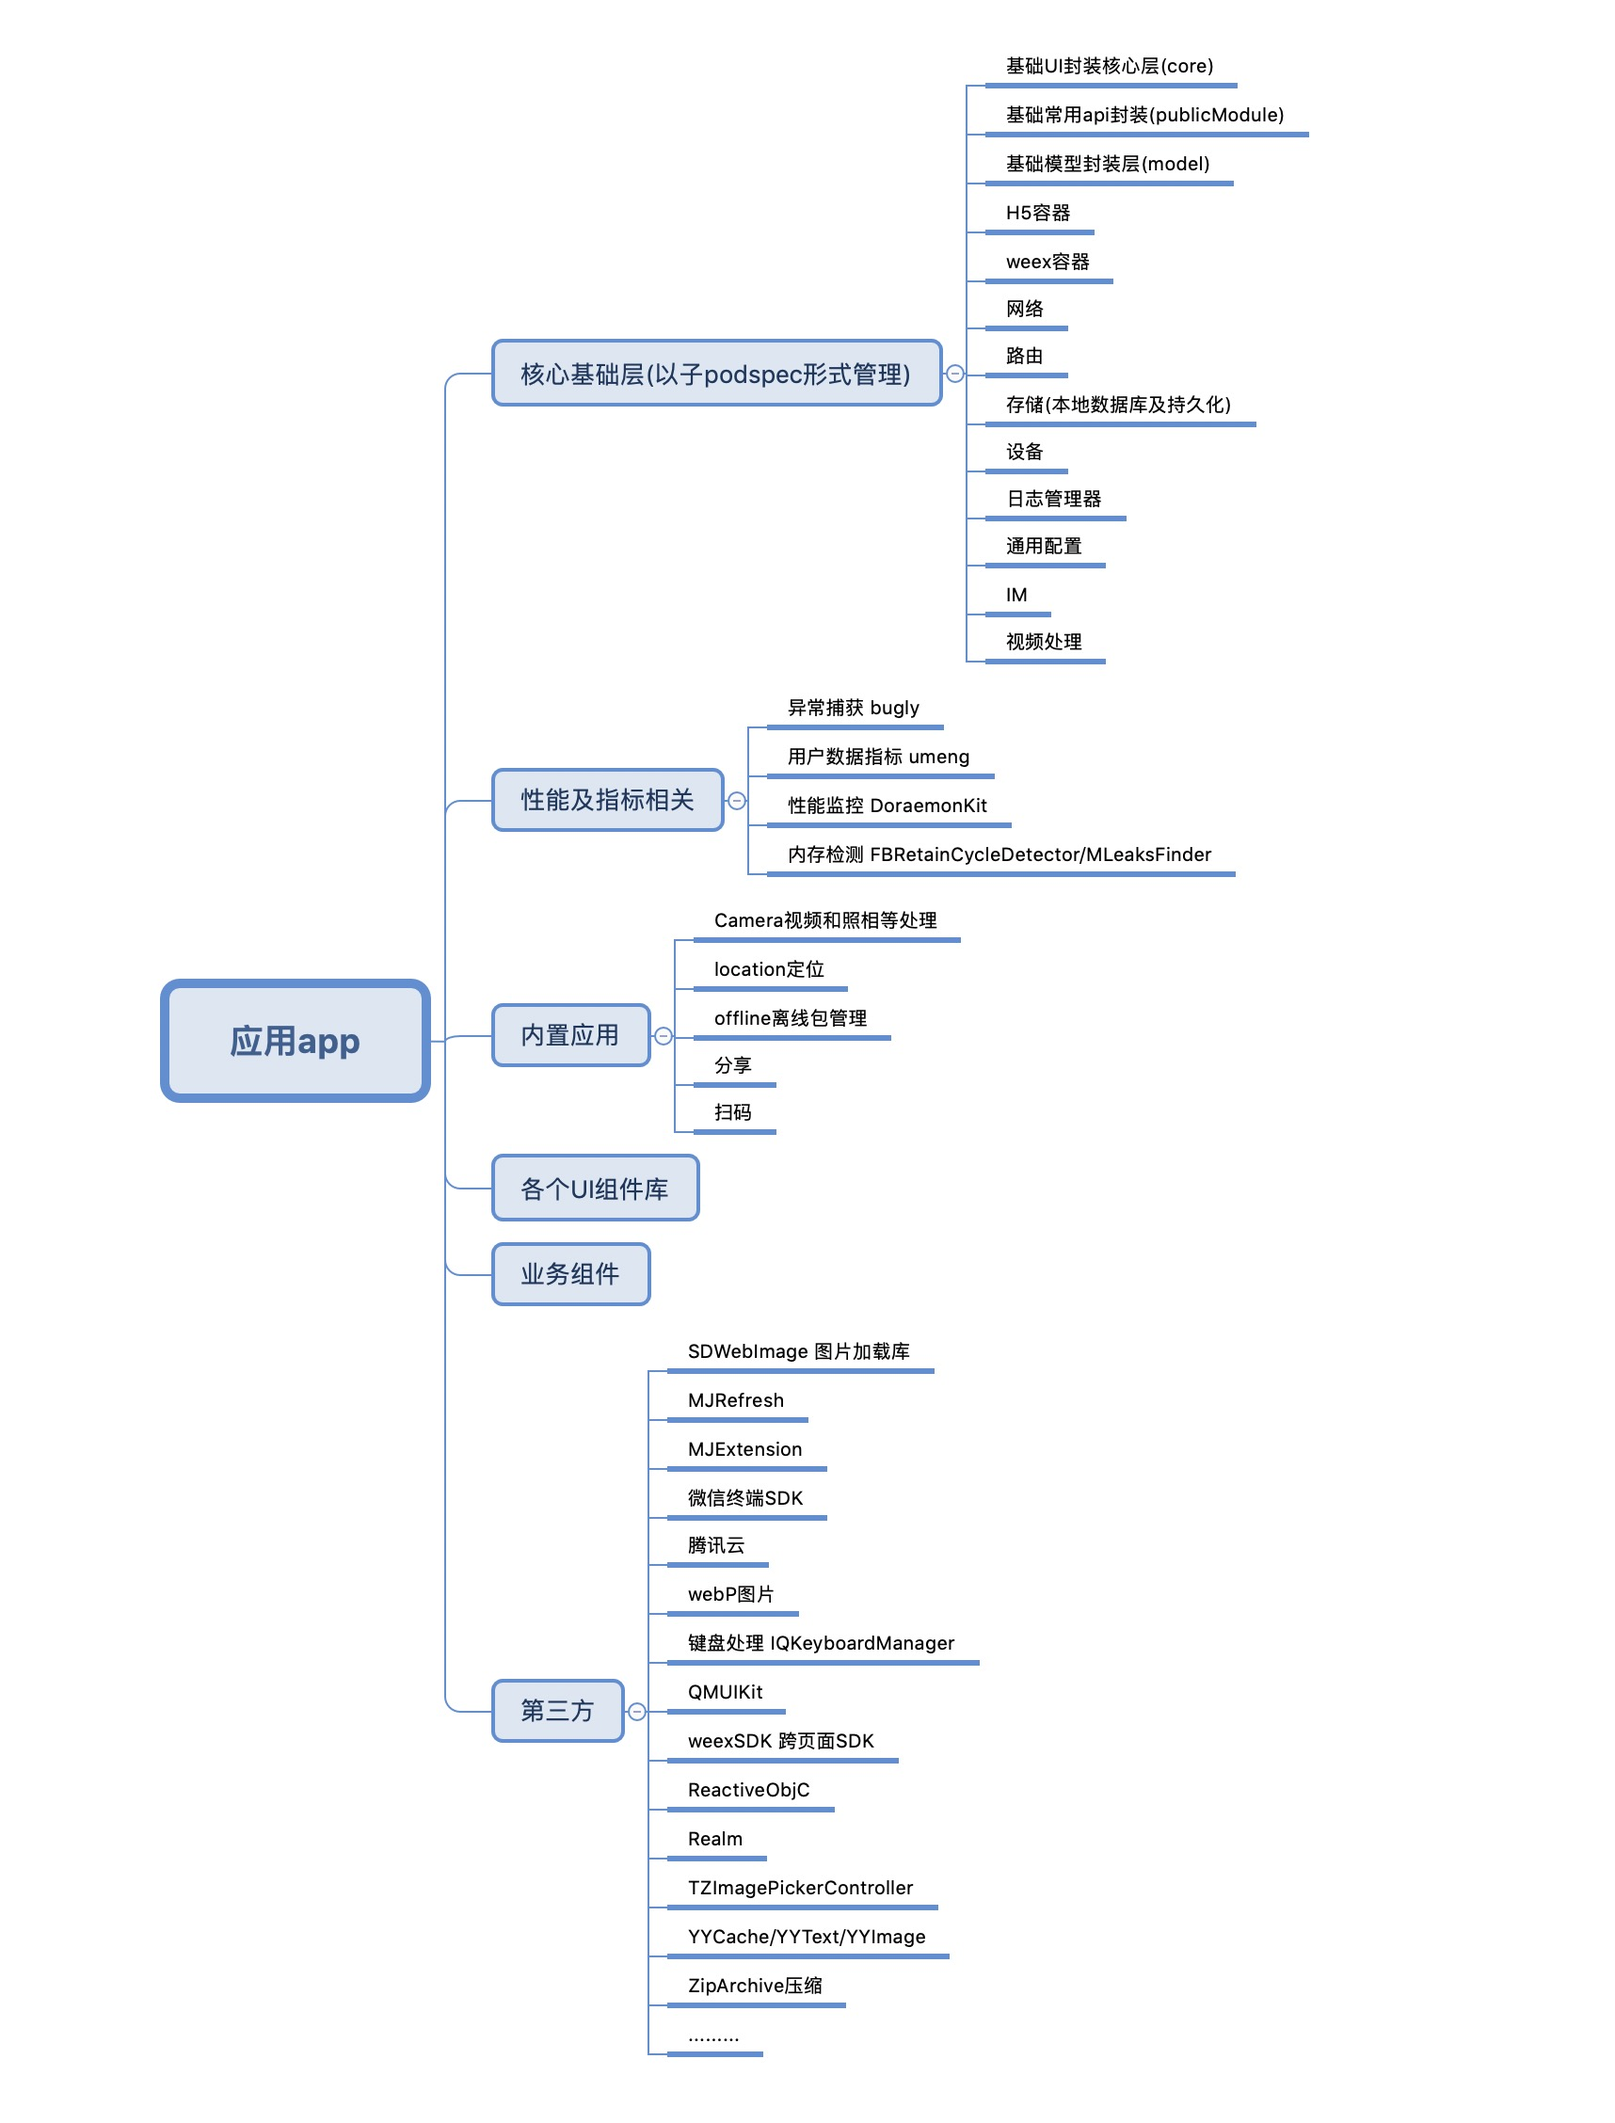
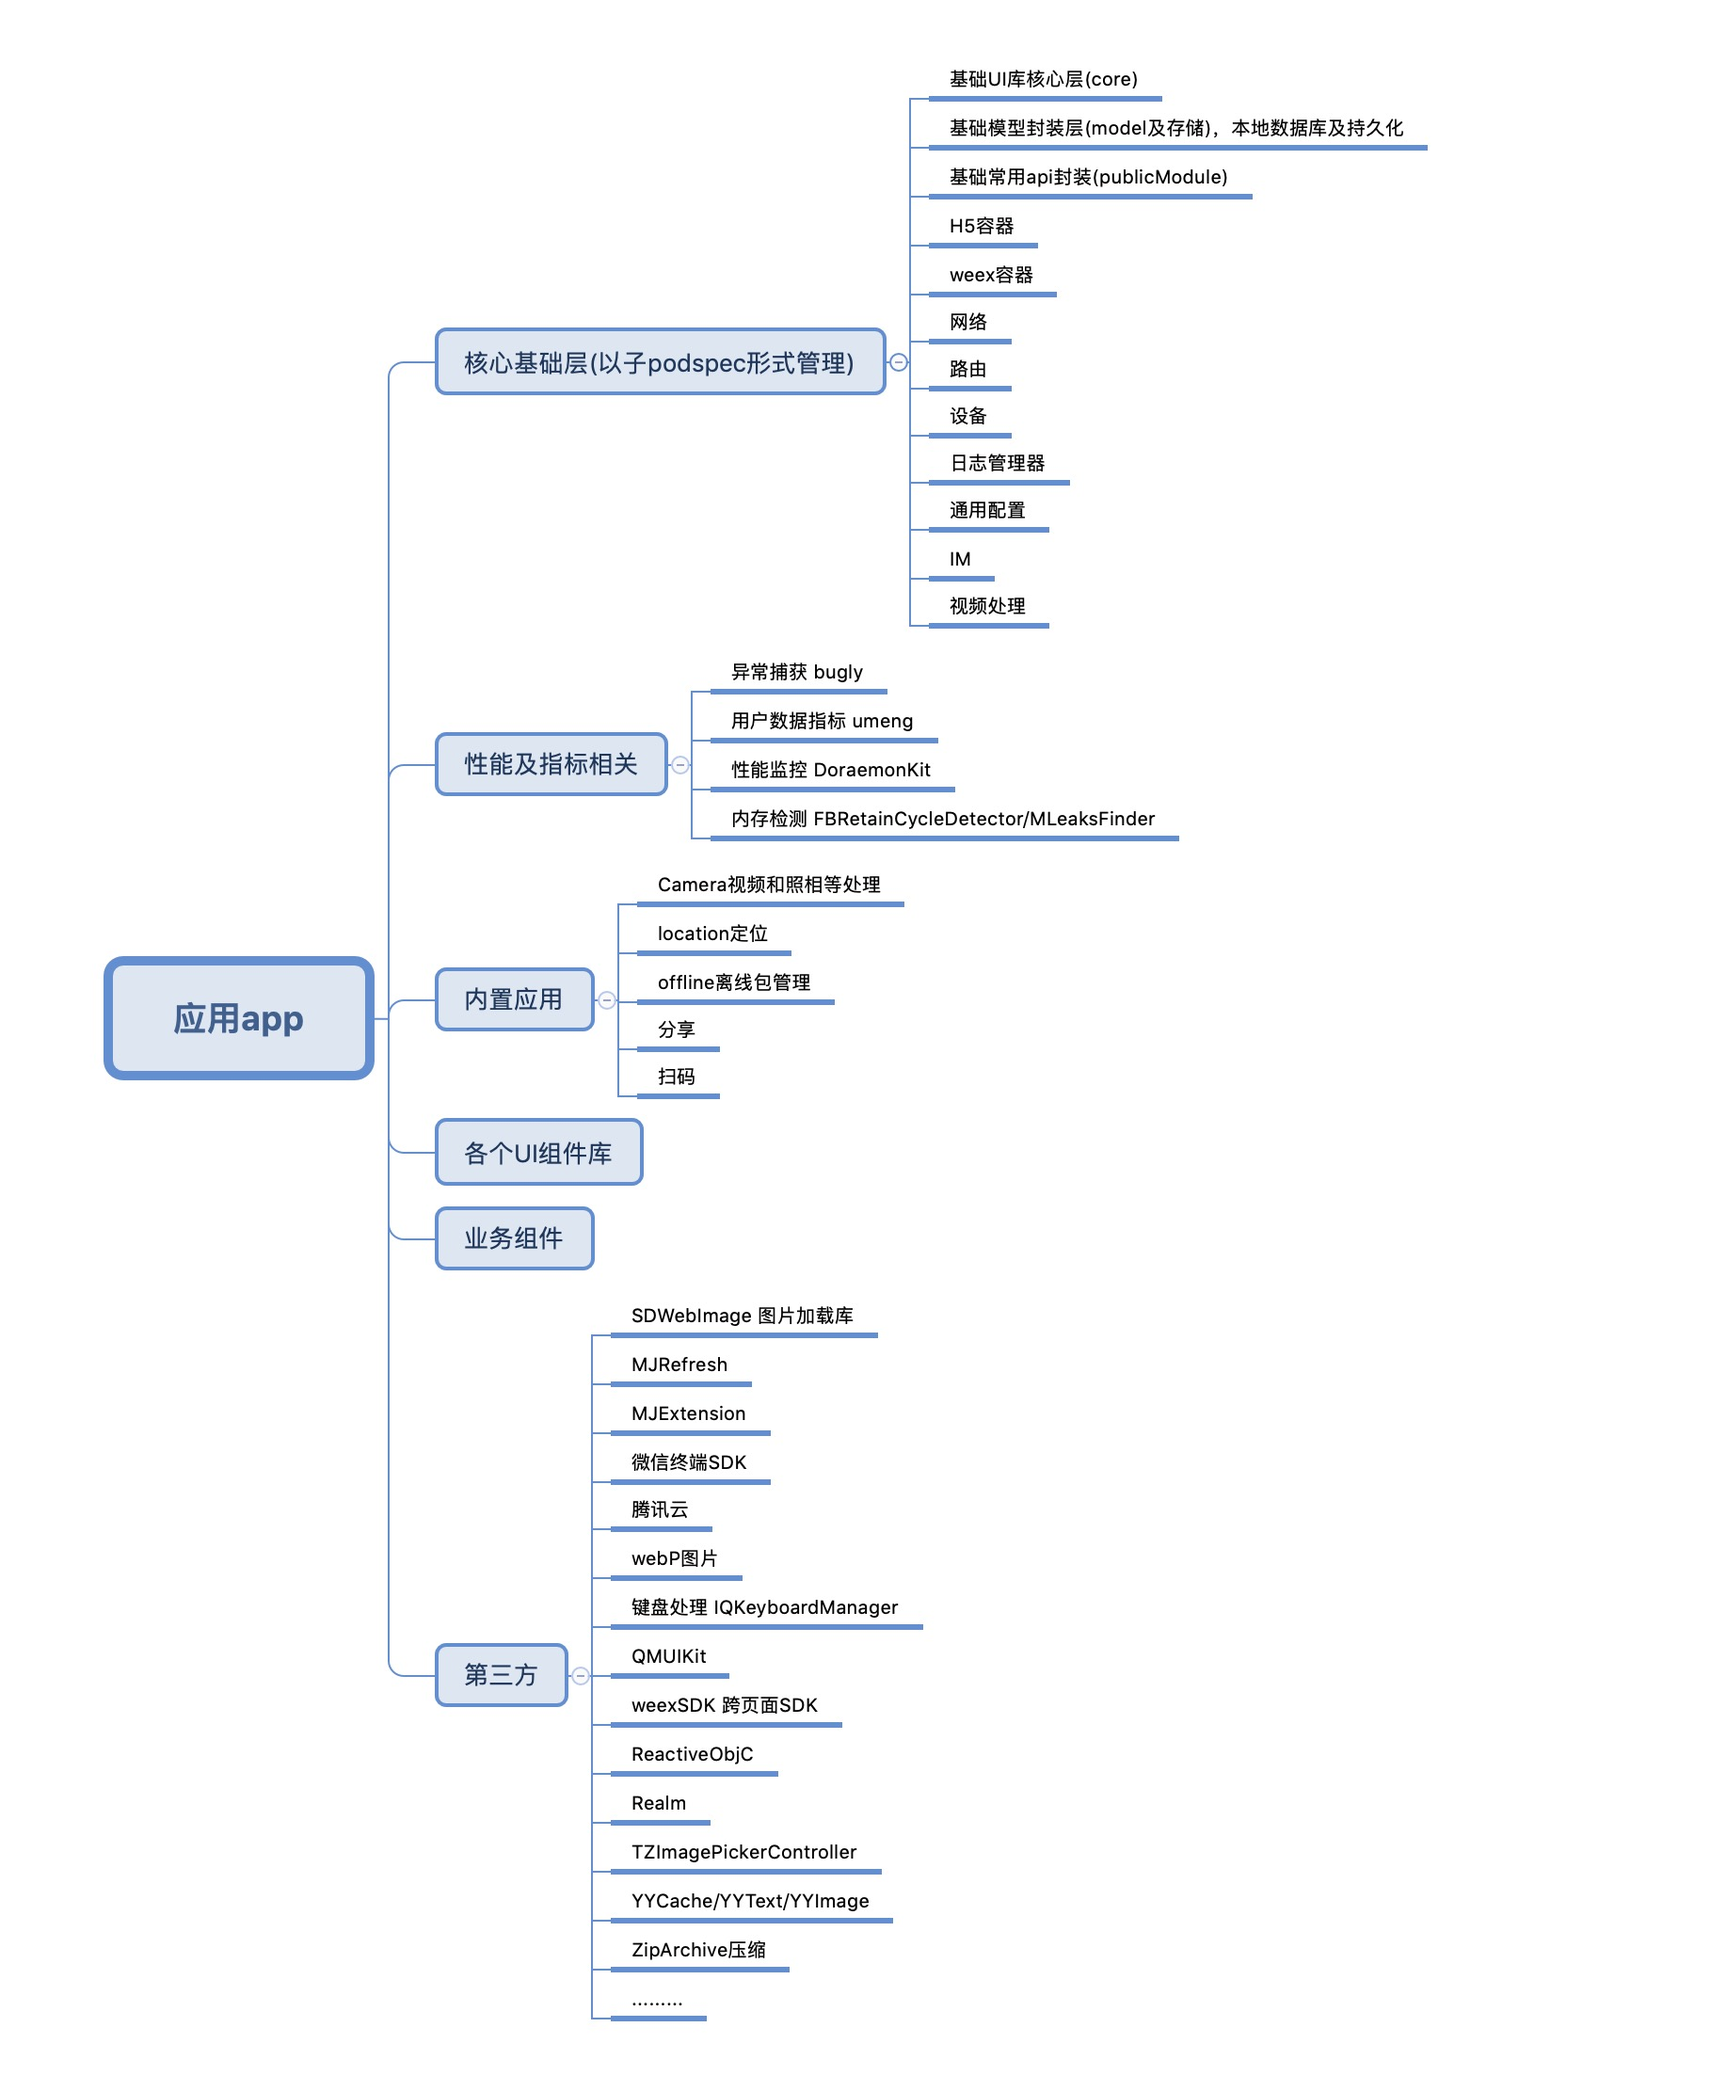
细节整理

Changed region(s): [[0.0618, 0.0311, 0.803, 0.9626]]

diff --git a/_posts/ios/2020-04-13-组件化(一)-基础库的梳理.md b/_posts/ios/2020-04-13-组件化(一)-基础库的梳理.md
@@ -197,11 +197,9 @@ keywords: base, framework, 梳理
 1.状态栏statusBar样式
 * 使用UIViewcontroller的分类进行api的控制，因为子类可以重写改变
 
-2.
+2.自动旋转，目前应用不支持自动旋转，这里省略
 
-3.自动旋转，目前应用不支持自动旋转，这里省略
-
-4.视图操作
+3.视图操作
 * 构建viewDidLoad的默认setting方法，让子类重写
 * 根据route进行参数映射公共方法解析
 
@@ -225,8 +223,8 @@ keywords: base, framework, 梳理
 
 ----
 
-#### 基础数据库framework
-这里只有两个方面需要处理：model和ViewModel
+#### 基础数据库model及存储
+这里model只有两个方面需要处理：model和ViewModel
 
 1.BaseModel
 继承于NSObject的基类model,后续创建的模型基于BaseModel构建，主要是为了统一模型“泛型”，及后续统一的扩展
@@ -235,3 +233,8 @@ keywords: base, framework, 梳理
 继承于NSObject的基类ViewModel,根据mvvm模式，模块的vm统一继承BaseViewModel，划分职责：
 * 公共操作分类组件，比如视频或者图片上传操作
 * 列表参数组件分类
+
+3.数据存储，进行对象关系映射，持久化
+* fmdb封装应用
+* realm的封装应用
+* 钥匙串数据持久化
